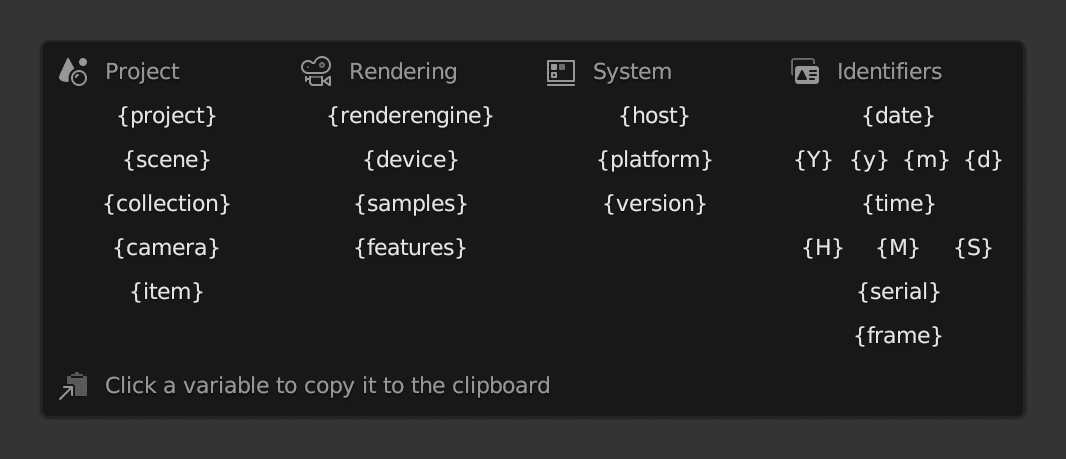
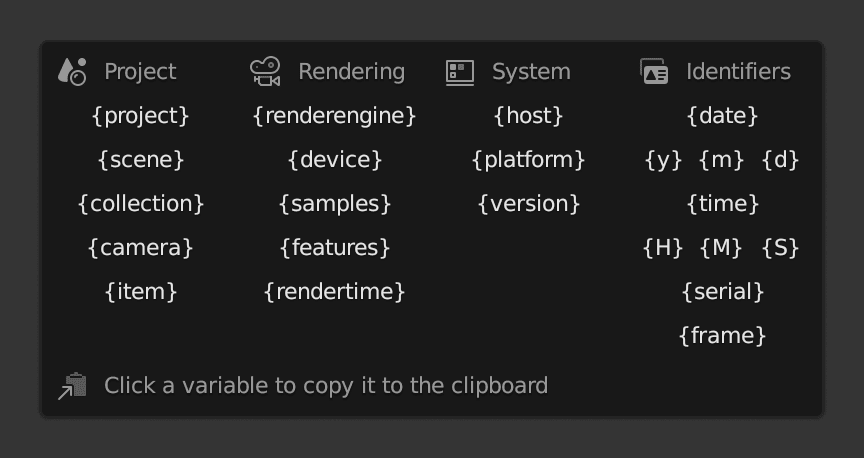
Documentation updates dynamic variables

diff --git a/README.md b/README.md
@@ -2,11 +2,12 @@
 
 Automatically saves a numbered or dated image after every render and extends the Blender output path and compositing output node with dynamic variables. This Blender add-on helps automate file naming (enabling easier and more advanced production workflows) and makes test renders easier to review and compare (saving what would otherwise be overwritten or lost when quitting the app).
 
-![screenshot of Blender's Render Output user interface with the add-on installed](images/screenshot0-main.png)
+![screenshot of the variable popup window in the compositing tab](images/banner.jpg)
 
 
 
 ## Installation and Usage
+
 - Download [VF_autosaveRender.py](https://raw.githubusercontent.com/jeinselenVF/VF-BlenderAutoSaveRender/main/VF_autosaveRender.py)
 - Open Blender Preferences and navigate to the "Add-ons" tab
 - Install and enable the add-on
@@ -14,13 +15,17 @@ Automatically saves a numbered or dated image after every render and extends the
 
 _**Warning:**_ version 2 of this add-on changes the capitalisation of the file, and will fail to install or run correctly if prior versions are not fully cleared from the system before upgrading. Restarting Blender may be necessary between uninstalling an older version and installing this update.
 
+![screenshot of Blender's Render Output user interface with the add-on installed](images/screenshot0-main.png)
+
+The default settings will work as-is, saving each render in a folder alongside the project file. But there's more...
+
 
 
 ## Global Preferences
 
-![screenshot of the add-on's user preferences in the Blender Preferences Add-ons panel](images/screenshot1-preferences.png)
-
 Add-on preferences are found in the Blender Preferences panel add-on tab, at the bottom of the plugin listing. These settings apply globally, except for the `Total Render Time` value which is saved within the project file.
+
+![screenshot of the add-on's user preferences in the Blender Preferences Add-ons panel](images/screenshot1-preferences.png)
 
 ### Preferences
 - `Render Output Variables` enables dynamic variables in the output file path
@@ -44,7 +49,68 @@ Add-on preferences are found in the Blender Preferences panel add-on tab, at the
 
 
 
-## Project Settings
+## Dynamic Variables
+
+Dynamic variables can be used in Blender's Output Path, in the Base Path and File Subpath strings of File Output nodes in the Compositing tab, and in the Custom String setting of the Autosave Render sub-panel.
+
+![screenshot of the add-on's custom variable popup window](images/screenshot3-variables.png)
+
+The available variables are sorted into four groups: Project (values derived from the project itself), Rendering (render engine settings), System (the computer system), and Identifiers (values typically unique to the time or iteration of the render).
+
+1. **Project variables**
+  - `{project}` = the name of the Blender file
+  - `{scene}` = current scene being rendered (if multiple scenes are used in the compositing tab, only the currently selected scene name will be used)
+  - `{collection}` = active collection (if no collection is selected or active, this will return the root "Scene Collection")
+  - `{camera}` = render camera (independent of selection or active status)
+  - `{item}` = active item (if no item is selected or active, this will return "None")
+2. **Rendering variables**
+  - `{renderengine}` = name of the current rendering engine (uses the internal Blender identifier)
+  - `{device}` = CPU or GPU device
+    - Workbench and Eevee always use the GPU
+    - Cycles can be set to either CPU or GPU, but multiple enabled devices will not be listed
+    - Radeon ProRender can use both CPU and GPU simultaneously, and in the case of multiple GPUs, additional active devices will be added as "+GPU"
+    - LuxCore can be set to either CPU or GPU, but multiple enabled devices will not be listed
+  - `{samples}` = number of samples
+    - Workbench will return the type of antialiasing enabled
+    - Eevee will return the total number of samples, subsurface scattering samples, and volumetric samples
+    - Cycles will return the adaptive sampling threshold, maximum samples, and minimum samples
+    - Radeon ProRender will return the minimum samples, maximum samples, and the adaptive sampling threshold
+    - LuxCore will return the sample settings for adaptive strength, warmup samples, and test step samples (Path) or eye depth and light depth (Bidir)
+    - All outputs reflect the order displayed in the Blender interface
+  - `{features}` = enabled features or ray recursions
+    - Workbench will return the type of lighting used; STUDIO, MATCAP, or FLAT
+    - Eevee will list abbreviations for ambient occlusion, bloom, screen space reflections, and motion blur if enabled
+    - Cycles will return the maximum values set for total bounces, diffuse, glossy, transmission, volume, and transparent
+    - Radeon ProRender will return the maximum values set for total ray depth, diffuse, glossy, refraction, glossy refraction, and shadow
+    - LuxCore will return the halt settings, if enabled, for seconds, samples, and/or noise threshold with warmup samples and test step samples
+  - `{rendertime}` = time spent rendering (this is calculated within the script and may not _exactly_ match the render metadata, which is unavailable in the Python API)
+3. **System variables**
+  - `{host}` = name of the computer or host being used for rendering
+  - `{platform}` = operating system of the computer being used for rendering (example: "macOS-12.6-x86_64-i386-64bit")
+  - `{version}` = Blender version and status (examples: "3.3.1-release" or "3.4.0-alpha")
+4. **Identifier variables**
+  - `{date}` = current date in YYYY-MM-DD format
+    - This is a combined shortcut for the individual date variables below
+  - `{y}` or `{year}` = current year in YYYY format
+  - `{m}` or `{month}` = current month in MM format
+  - `{d}` or `{day}` = current day in DD format
+  - `{time}` = current time in HH-MM-SS 24-hour format
+    - This is a combined shortcut for the individual time variables below
+    - Note the uppercase capitalisation for the shorthand time variables, distinguishing them from the shorthand date variables
+  - `{H}` or `{hour}` = current hour in HH 24-hour format
+  - `{M}` or `{minute}` = current minute in MM format
+  - `{S}` or `{second}` = current second in SS format
+  - `{serial}` = automatically incremented serial number padded to 4 digits
+    - While this variable can be used in the autosave path and custom string, the output path, and in compositing tab file output nodes, the serial number for autosaving versus the other file output methods is separate so that test renders can use their own serial number tracking
+    - The `Serial Number` input fields are enabled only when the `{serial}` variable appears in the associated path or file name, and will automatically increment every time a render is saved
+    - Files may be overwritten if this counter is manually reset; both a feature and a danger
+  - `{frame}` = current frame number (padded to four digits)
+
+_**Warning:**_ using a custom string may result in overwriting or failing to save files if the generated name is not unique. For example, if date and time or serial number variables are not included.
+
+
+
+## Autosave Settings
 
 ![screenshot of the add-on's project settings panel with customised autosave settings](images/screenshot2-autosave.png)
 
@@ -52,6 +118,7 @@ Project settings are found at the bottom of the Render Output panel and are uniq
 
 - `Variable List`
   - This opens a reference panel with all of the variables that can be used in either the `file location` or `custom string` strings below
+  - Clicking on a variable will copy it to the clipboard, ready for pasting wherever it's needed in an output path or file name
 
 - `Serial Number`
   - This is the local project serial number for autosaved files, independent of the serial number for output files, and will be unused if file location or file name inputs are replaced with a global override in the `Blender Preferences > Add-on` window, which uses the serial number saved in the plugin preferences
@@ -66,54 +133,7 @@ Project settings are found at the bottom of the Render Output panel and are uniq
   - `Project Name + Date & Time` uses the name of the blender file and the local date and time (formatted YYYY-MM-DD HH-MM-SS using 24 hour time)
   - `Project Name + Render Engine + Render Time` uses the name of the blender file, the name of the render engine, and the time it took to render
     - When a sequence is rendered, only the final frame will be saved and this value will be the total sequence render time, not the per-frame render time
-  - `Custom String` uses pattern replacement to allow for entirely unique file naming patterns ![screenshot of the add-on's custom variable popup window](images/screenshot3-variables.png)
-    1. **Project variables**
-    - `{project}` = the name of the Blender file
-    - `{scene}` = current scene being rendered (if multiple scenes are used in the compositing tab, only the currently selected scene name will be used)
-    - `{collection}` = active collection (if no collection is selected or active, this will return the root "Scene Collection")
-    - `{camera}` = render camera (independent of selection or active status)
-    - `{item}` = active item (if no item is selected or active, this will return "None")
-    2. **Rendering variables**
-    - `{renderengine}` = name of the current rendering engine (uses the internal Blender identifier)
-    - `{device}` = CPU or GPU device
-      - Workbench and Eevee always use the GPU
-      - Cycles can be set to either CPU or GPU, but multiple enabled devices will not be listed
-      - Radeon ProRender can use both CPU and GPU simultaneously, and in the case of multiple GPUs, additional active devices will be added as "+GPU"
-      - LuxCore can be set to either CPU or GPU, but multiple enabled devices will not be listed
-    - `{samples}` = number of samples
-      - Workbench will return the type of antialiasing enabled
-      - Eevee will return the total number of samples, subsurface scattering samples, and volumetric samples
-      - Cycles will return the adaptive sampling threshold, maximum samples, and minimum samples
-      - Radeon ProRender will return the minimum samples, maximum samples, and the adaptive sampling threshold
-      - LuxCore will return the sample settings for adaptive strength, warmup samples, and test step samples (Path) or eye depth and light depth (Bidir)
-      - All outputs reflect the order displayed in the Blender interface
-    - `{features}` = enabled features or ray recursions
-      - Workbench will return the type of lighting used; STUDIO, MATCAP, or FLAT
-      - Eevee will list abbreviations for ambient occlusion, bloom, screen space reflections, and motion blur if enabled
-      - Cycles will return the maximum values set for total bounces, diffuse, glossy, transmission, volume, and transparent
-      - Radeon ProRender will return the maximum values set for total ray depth, diffuse, glossy, refraction, glossy refraction, and shadow
-      - LuxCore will return the halt settings, if enabled, for seconds, samples, and/or noise threshold with warmup samples and test step samples
-    - `{rendertime}` = time spent rendering (this is calculated within the script and may not _exactly_ match the render metadata, which is unavailable in the Python API)
-    3. **System variables**
-    - `{host}` = name of the computer or host being used for rendering
-    - `{platform}` = operating system of the computer being used for rendering (example: "macOS-12.6-x86_64-i386-64bit")
-    - `{version}` = Blender version and status (examples: "3.3.1-release" or "3.4.0-alpha")
-    4. **Identifier variables**
-    - `{date}` = current date in YYYY-MM-DD format, a shortcut for the individual variables below
-    - `{Y}` = current year in YYYY format (note the capitalisation)
-    - `{y}` = current year in YY format
-    - `{m}` = current month in MM format
-    - `{d}` = current day in DD format
-    - `{time}` = current time in HH-MM-SS 24-hour format, a shortcut for the individual variables below
-    - `{H}` = current hour in HH 24-hour format
-    - `{M}` = current minute in MM format
-    - `{S}` = current second in SS format
-    - `{serial}` = automatically incremented serial number padded to 4 digits
-    - `{frame}` = current frame number (padded to four digits)
-
-- `Serial Number` input field is enabled only when the text `{serial}` appears in the `File Location` or `Custom String` fields, and automatically increments every time a render is saved (files may be overwritten if this counter is manually reset; both a feature and a danger!)
-
-_**Warning:**_ using a custom string may result in overwriting or failing to save files if the generated name is not unique. For example, if date and time or serial number variables are not included.
+  - `Custom String` uses the dynamic variables listed above to allow for entirely unique file naming patterns
 
 - `File Format`
   - `Project Setting` will use the same format as set in the Render Output panel (see note below about multilayer EXR limitations)
@@ -149,7 +169,7 @@ This feature supports customisation of both the `Base Path` and each image input
 
 ![screenshot of the estimated render time remaining display in the menu bar of the Blender render window](images/screenshot6-estimate.png)
 
-When enabled in the plugin preferences, Autosave Render can track elapsed time during animation rendering and calculate a rough estimate based on the number of frames completed versus remaining.
+When enabled in the plugin preferences, the plugin can track elapsed time during animation rendering and calculate a rough estimate based on the number of frames completed versus remaining.
 
 This isn't particularly accurate, especially during the first few frames or in scenes with a great deal of variability in render time from frame to frame, but can give a general guess as to how much render time remains.
 
@@ -159,7 +179,7 @@ The estimation will only show up after the first frame of an animation sequence 
 
 ## Notes
 
-- Autosave Render depends on the Blender project file having been saved at least once in order to export images, otherwise there is no project name or local directory for the add-on to work with
+- Autosaving a render depends on the Blender project file having been saved at least once in order to export images, otherwise there is no project name or local directory for the add-on to work with
   - An alternative version of the plugin that supports unsaved projects is [available in this older branch](https://github.com/jeinselenVF/VF-BlenderAutosaveRender/tree/Support_Unsaved_Projects)
 - Only the final frame will be autosaved when rendering animation sequences, preventing mass duplication but still allowing for total render time to be saved in the file name (if used in the `Custom String` setting)
 - Total internal render time will continue to increment even when auto file saving is toggled off in the output panel
